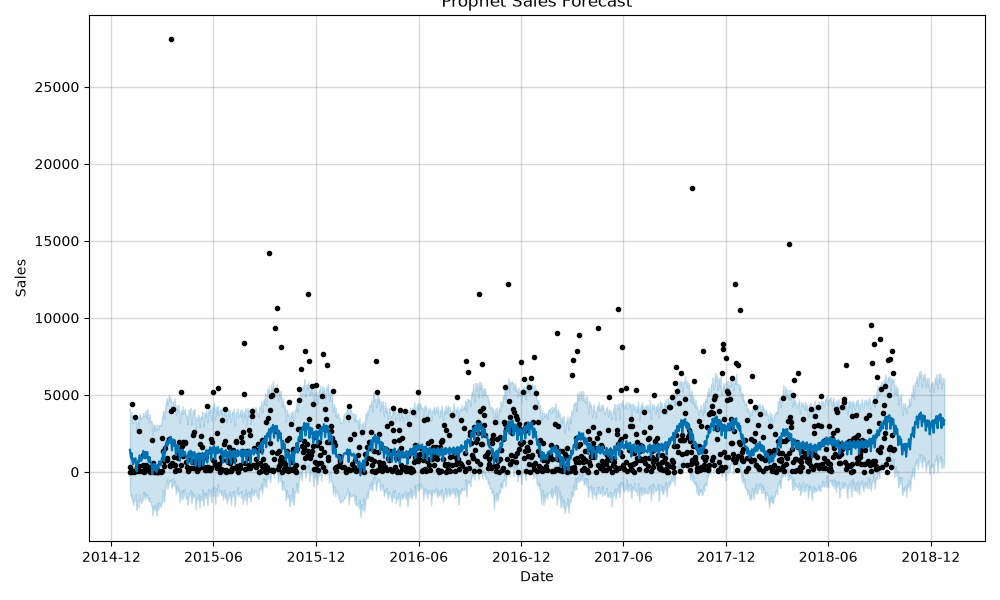
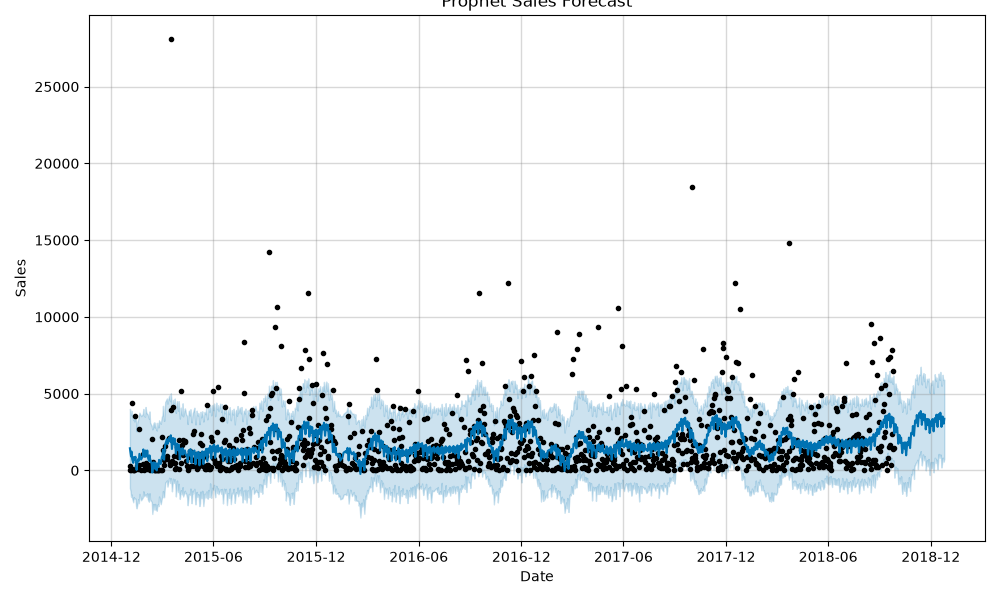
Add product cluster data

diff --git a/pages/4_Product_Demand_Segments.py b/pages/4_Product_Demand_Segments.py
@@ -1,0 +1,36 @@
+import streamlit as st
+import pandas as pd
+
+st.set_page_config(
+    page_title="Product Demand Segments",
+    page_icon="📦",
+    layout="wide"
+)
+
+st.title("📦 Product Demand Segments")
+
+st.image(
+    "charts/product_demand_clusters.png",
+    use_container_width=True
+)
+
+cluster_table = pd.read_csv(
+    "models/product_clusters.csv"
+)
+
+st.subheader("Cluster Assignments")
+
+st.dataframe(
+    cluster_table,
+    use_container_width=True
+)
+
+st.info("""
+Cluster 0 → High Volume, Stable Demand
+
+Cluster 1 → Declining Demand
+
+Cluster 2 → Growing Demand
+
+Cluster 3 → Low Volume, High Volatility
+""")